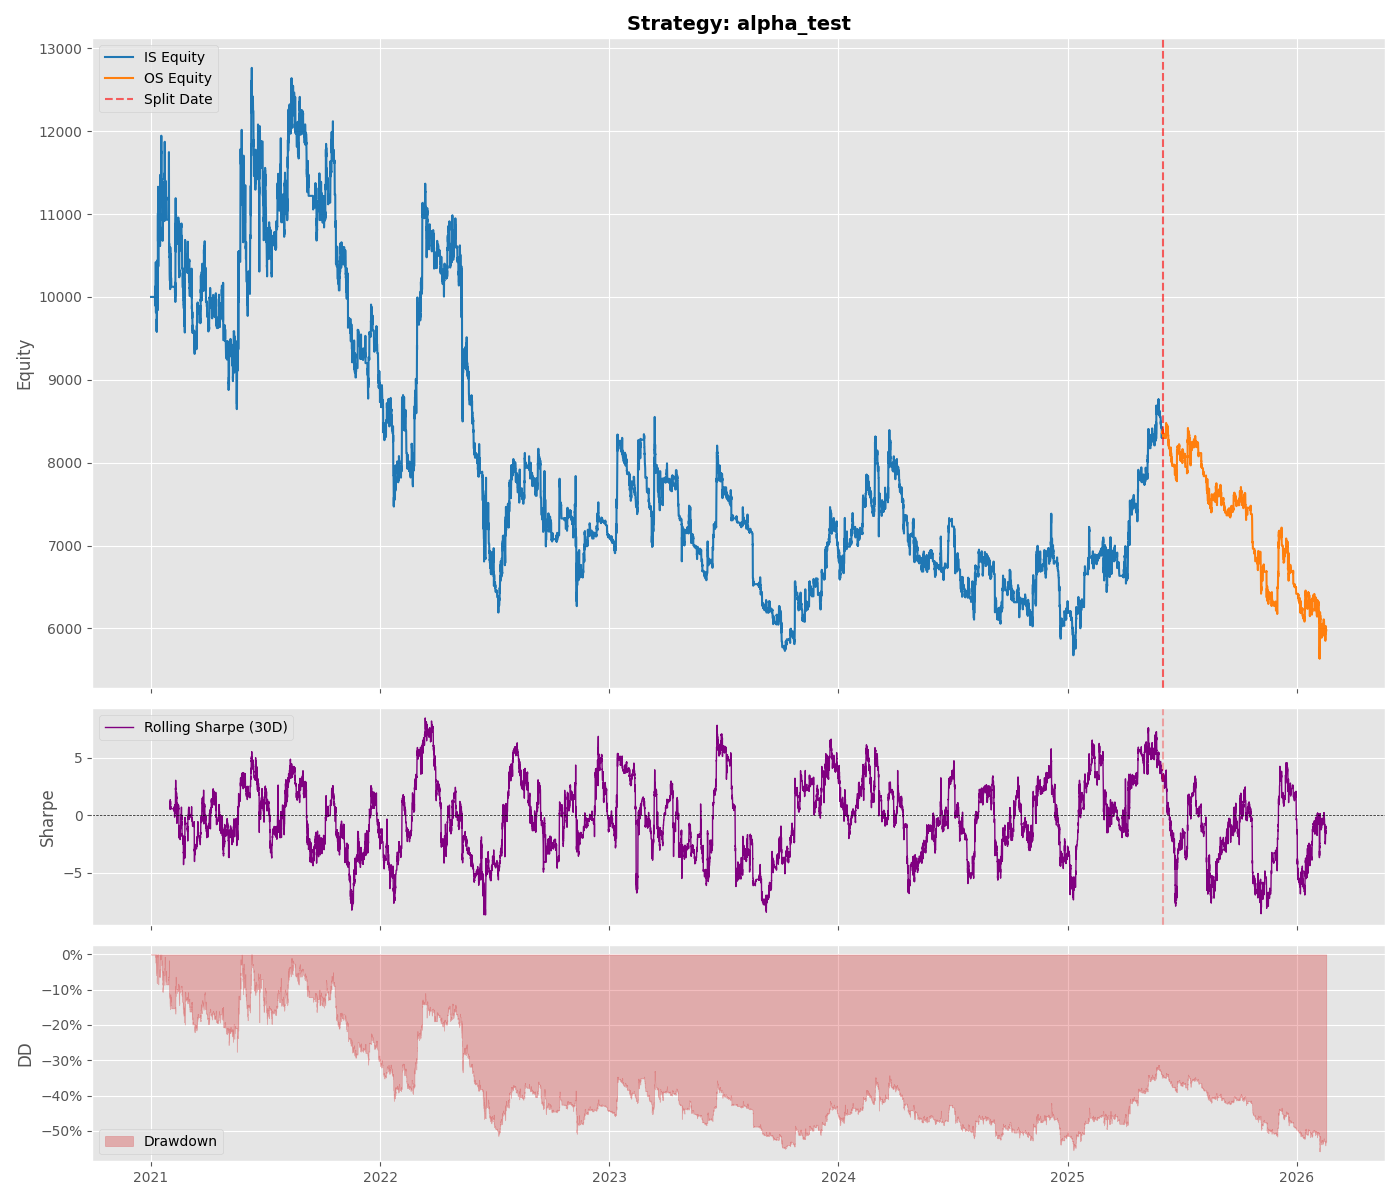
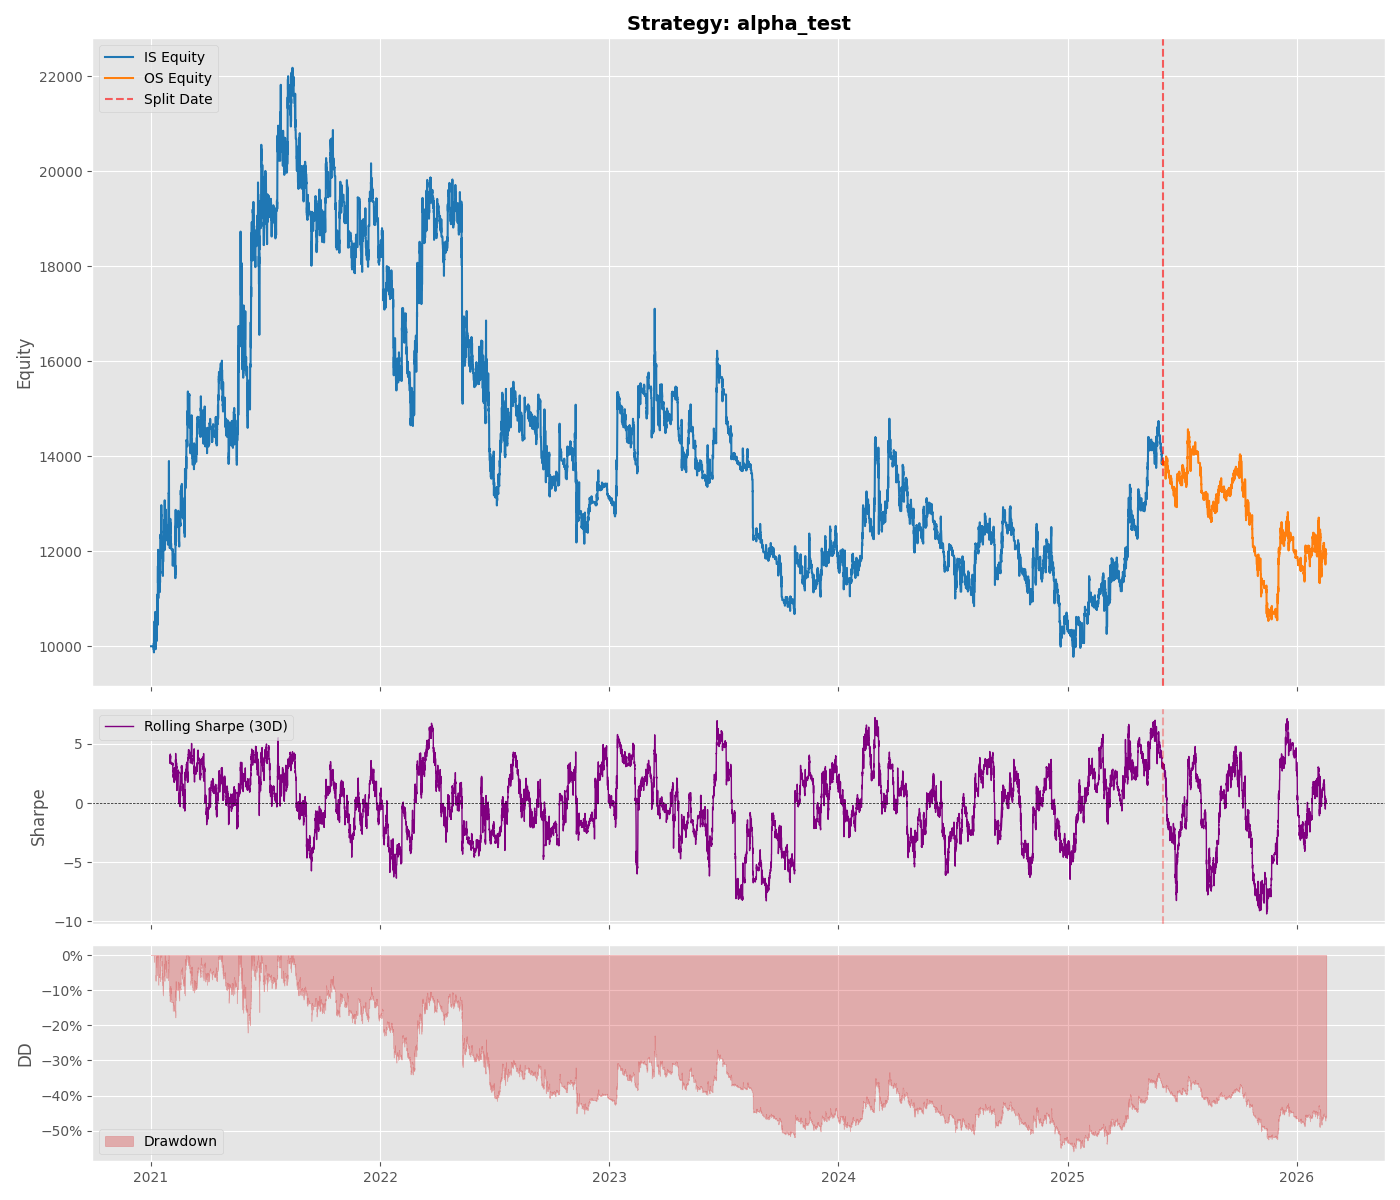
rrun test

diff --git a/plot_performance.py b/plot_performance.py
@@ -1,0 +1,102 @@
+import sqlite3
+import pandas as pd
+import matplotlib.pyplot as plt
+import matplotlib.dates as mdates
+
+def plot_equity_vs_benchmark(db_path=r"D:\investment\trading_data.db"):
+    print(f" 正在讀取資料庫 {db_path} 中的快照數據...")
+    
+    # 1. 連接資料庫並讀取數據
+    try:
+        conn = sqlite3.connect(db_path)
+        # 讀取時間、餘額、未實現損益、標的物價格
+        query = """
+            SELECT timestamp, total_balance, unrealized_pnl, btc_price 
+            FROM snapshots 
+            ORDER BY timestamp ASC
+        """
+        df = pd.read_sql(query, conn)
+        conn.close()
+    except Exception as e:
+        print(f" 讀取資料庫失敗: {e}")
+        return
+
+    if df.empty:
+        print(" 資料庫中沒有快照數據 (Snapshots)，可能機器人還沒紀錄到快照。")
+        return
+        
+    # 2. 數據預處理
+    df['timestamp'] = pd.to_datetime(df['timestamp'])
+    df.set_index('timestamp', inplace=True)
+    
+    # 計算真實總權益 = 現金餘額 + 未實現損益
+    df['total_equity'] = df['total_balance'] + df['unrealized_pnl']
+    
+    # 3. 計算歸一化報酬率 (基期設為 1.0，方便放在同一個刻度比較)
+    initial_equity = df['total_equity'].iloc[0]
+    initial_price = df['btc_price'].iloc[0]
+    
+    df['equity_return'] = df['total_equity'] / initial_equity
+    df['benchmark_return'] = df['btc_price'] / initial_price
+
+    # 4.  計算相關性 (Correlation)
+    # 必須使用「每期報酬率(變化率)」來計算相關性，而非絕對數值
+    df['equity_pct_change'] = df['total_equity'].pct_change()
+    df['bench_pct_change'] = df['btc_price'].pct_change()
+    
+    # 計算 Pearson 相關係數 (忽略 NaN)
+    correlation = df['equity_pct_change'].corr(df['bench_pct_change'])
+
+    # 5. 計算其他績效指標
+    total_ret = df['equity_return'].iloc[-1] - 1
+    bench_ret = df['benchmark_return'].iloc[-1] - 1
+    
+    # 計算最大回撤 (Max Drawdown)
+    df['equity_peak'] = df['equity_return'].cummax()
+    df['drawdown'] = (df['equity_return'] - df['equity_peak']) / df['equity_peak']
+    max_dd = df['drawdown'].min()
+
+    df['bench_peak'] = df['benchmark_return'].cummax()
+    df['bench_drawdown'] = (df['benchmark_return'] - df['bench_peak']) / df['bench_peak']
+    bench_max_dd = df['bench_drawdown'].min()
+
+    print(f" 數據處理完成！共 {len(df)} 筆快照。")
+    print(f" 策略總報酬: {total_ret:.2%} | 最大回撤: {max_dd:.2%}")
+    print(f" 標的總報酬: {bench_ret:.2%} | 最大回撤: {bench_max_dd:.2%}")
+    print(f" 策略與標的相關性 (Correlation): {correlation:.4f}")
+
+    # 6. 繪製圖表
+    plt.figure(figsize=(14, 7))
+    
+    # 畫權益曲線與基準曲線
+    plt.plot(df.index, df['equity_return'], label=f'Portfolio Equity (Ret: {total_ret:.2%}, MDD: {max_dd:.2%})', color='#1f77b4', linewidth=2)
+    plt.plot(df.index, df['benchmark_return'], label=f'Benchmark Asset (Ret: {bench_ret:.2%}, MDD: {bench_max_dd:.2%})', color='#ff7f0e', alpha=0.7, linestyle='--')
+    
+    # 圖表美化設定 (將相關性加入標題)
+    plt.title(f'Multi-Strategy Portfolio vs Benchmark\n(Correlation: {correlation:.2f})', fontsize=16, fontweight='bold')
+    plt.xlabel('Date / Time', fontsize=12)
+    plt.ylabel('Cumulative Return (1.0 = Initial Investment)', fontsize=12)
+    
+    # 時間軸格式化
+    plt.gca().xaxis.set_major_formatter(mdates.DateFormatter('%Y-%m-%d %H:%M'))
+    plt.gcf().autofmt_xdate() # 自動旋轉 X 軸日期標籤
+    
+    plt.legend(loc='upper left', fontsize=11, framealpha=0.9)
+    plt.grid(True, linestyle='--', alpha=0.5)
+    
+    # 填充回撤區域 (視覺化虧損期)
+    plt.fill_between(df.index, df['equity_return'], df['equity_peak'], color='red', alpha=0.1, label='Drawdown')
+    
+    # 儲存與顯示
+    output_filename = 'portfolio_performance.png'
+    plt.tight_layout()
+    plt.savefig(output_filename, dpi=300)
+    print(f" 圖表已成功儲存為 {output_filename}")
+    
+    try:
+        plt.show()
+    except:
+        pass
+
+if __name__ == "__main__":
+    plot_equity_vs_benchmark()

diff --git a/check_pnl.py b/check_pnl.py
@@ -15,7 +15,7 @@ def get_current_price(symbol):
         ticker = client.ticker_price(symbol=symbol)
         return float(ticker['price'])
     except Exception as e:
-        print(f"⚠ 無法取得最新價格: {e}")
+        print(f" 無法取得最新價格: {e}")
         return None
 
 def analyze_strategy(df, strategy_name, current_price):
@@ -92,16 +92,16 @@ def analyze_strategy(df, strategy_name, current_price):
     net_pnl = realized_pnl + unrealized_pnl - total_fees
     
     print(f"\n{'='*40}")
-    print(f"🚀 策略: {strategy_name}")
+    print(f" 策略: {strategy_name}")
     print(f"{'='*40}")
-    print(f"💰 總損益 (Net PnL): {net_pnl:.4f} USDT")
+    print(f" 總損益 (Net PnL): {net_pnl:.4f} USDT")
     print(f"----------------------------------------")
-    print(f"📉 已實現損益: {realized_pnl:.4f}")
-    print(f"📈 未實現損益: {unrealized_pnl:.4f} (持倉: {current_qty:.3f})")
-    print(f"💸 交易手續費: {total_fees:.4f}")
+    print(f" 已實現損益: {realized_pnl:.4f}")
+    print(f" 未實現損益: {unrealized_pnl:.4f} (持倉: {current_qty:.3f})")
+    print(f" 交易手續費: {total_fees:.4f}")
     print(f"----------------------------------------")
-    print(f"📊 交易次數: {total_trades}")
-    print(f"🏆 勝率: {win_rate:.1f}% ({wins}勝 {losses}敗)")
+    print(f" 交易次數: {total_trades}")
+    print(f" 勝率: {win_rate:.1f}% ({wins}勝 {losses}敗)")
     if current_qty > 0:
         print(f"⚡ 目前持倉均價: {avg_entry:.2f} | 現價: {current_price}")
 
@@ -114,11 +114,11 @@ def main():
     try:
         df = pd.read_sql_query(query, conn)
     except Exception as e:
-        print(f"❌ 讀取資料庫失敗: {e}")
+        print(f" 讀取資料庫失敗: {e}")
         return
 
     if df.empty:
-        print("❌ 資料庫是空的，還沒有交易紀錄。")
+        print(" 資料庫是空的，還沒有交易紀錄。")
         return
 
     # 取得最新價格

diff --git a/alphas/run_optimization.py b/alphas/run_optimization.py
@@ -116,7 +116,7 @@ def main():
     if MODE == "grid":
         best_params, best_score = run_grid_search(env, search_space)
     elif MODE == "optuna":
-        best_params, best_score = run_optuna_search(env, search_space, n_trials=200, use_genetic=True)
+        best_params, best_score = run_optuna_search(env, search_space, n_trials=250, use_genetic=True)
 
     elapsed = time.time() - start_time
     print("\n" + "="*60)

diff --git a/alphas/research.py b/alphas/research.py
@@ -73,7 +73,7 @@ class ResearchEnvironment:
         if len(equity_curve) < 2: return -999.0
 
         equity = pd.Series([r['equity'] for r in equity_curve])
-        pct = equity.pct_change().dropna()
+        pct = equity.pct_change().fillna(0)
         
         if pct.std() == 0: return 0.0
         

diff --git a/alphas/alpha_test.py b/alphas/alpha_test.py
@@ -21,7 +21,7 @@ class Strategy(BaseAlpha):
     
     default_params = {
         "mad_ma_window": 25,
-        "quanti_window": 150,
+        "quanti_window": 100,
         "weiht1": 0.2,
         
         # 2. 把特徵變成參數！(這裡寫預設值)
